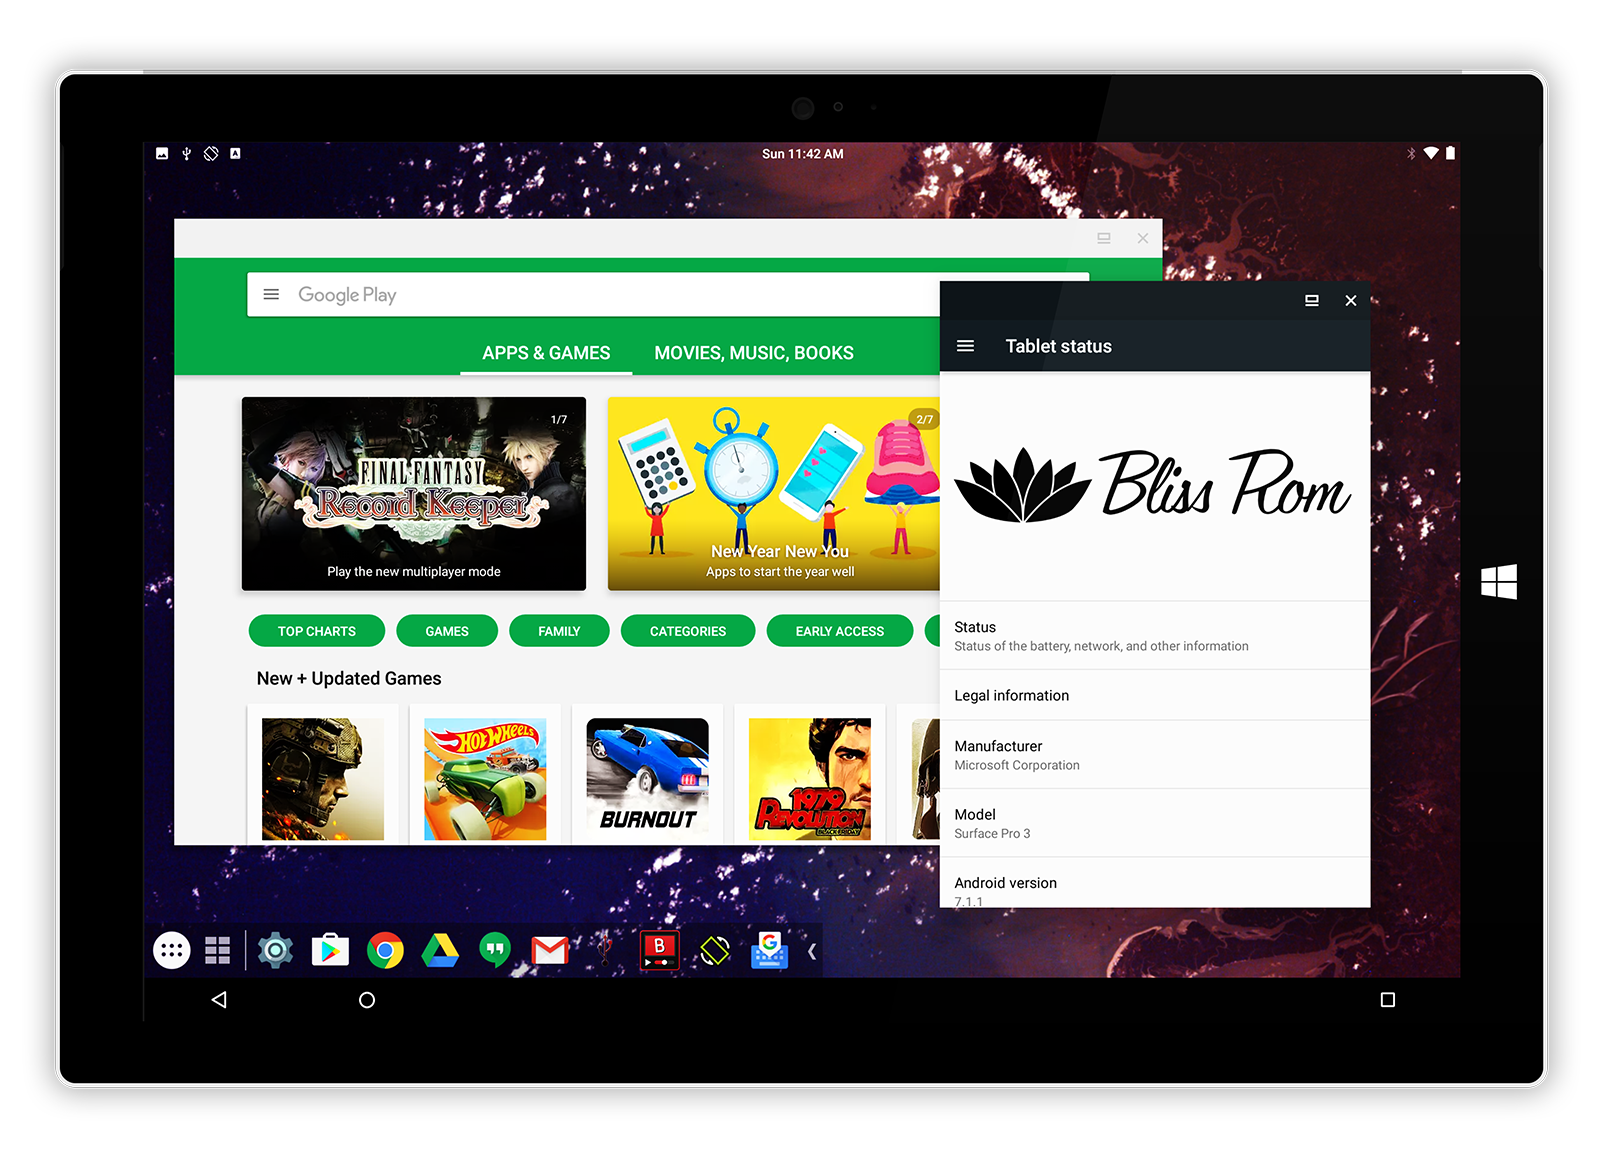
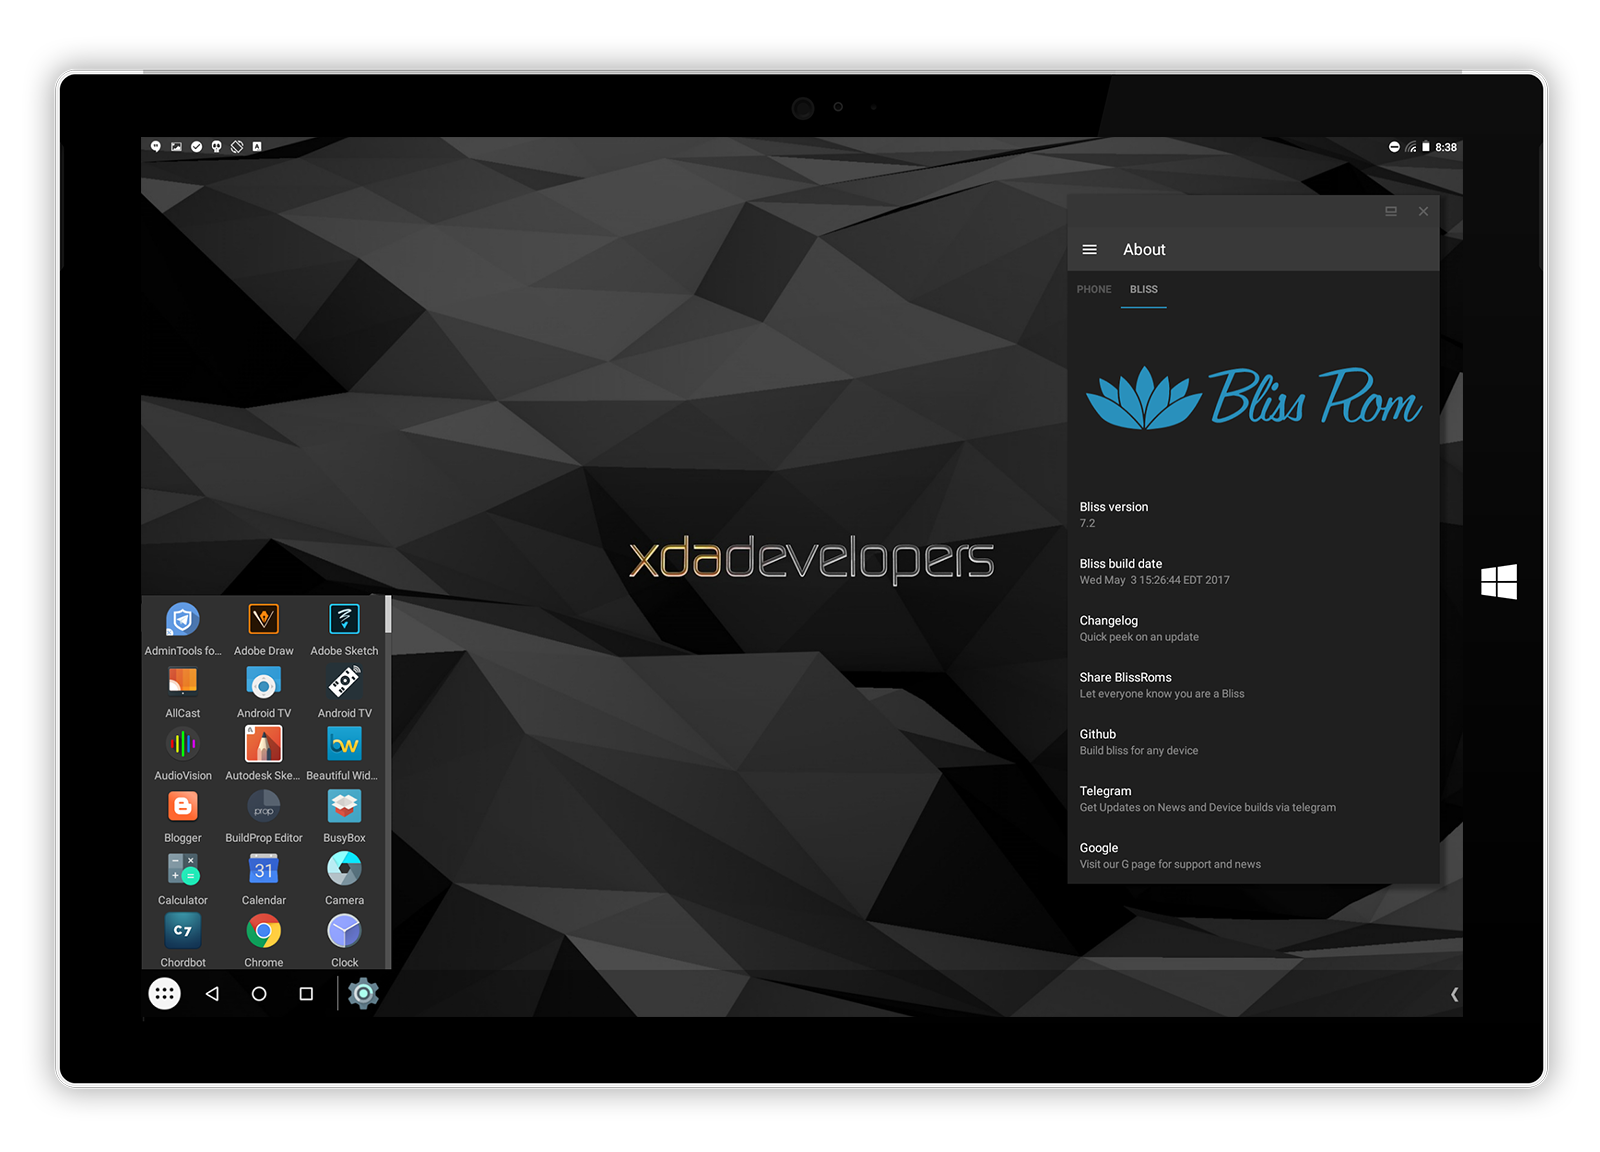
Switch to new(er) Bliss-x86 screenshot

diff --git a/index.html b/index.html
@@ -134,7 +134,8 @@
                                     </div>
                                     <div class="col-sm-7 text-center pull-right-sm">
                                         <!--flipped on small, unflipped on large-->
-                                        <img class="img-rounded portfolio-projects--image" src="images/bliss_surface.png">
+                                        <img class="img-rounded portfolio-projects--image" src="images/bliss_surface.png"><br>
+										<p class="portfolio-projects--desc">(Preview shown using DNA Dark - Substratum theme)</p>
                                     </div>
                                 </div>
                             </div>
